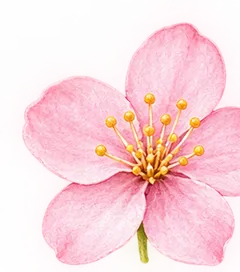
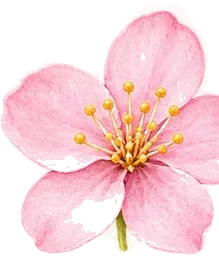
Grow the opening from a stem, then bloom lavender on the branches.

diff --git a/src/components/ForeverInvite.tsx b/src/components/ForeverInvite.tsx
@@ -12,46 +12,13 @@ const ART = "/forever";
 type Reply = { name: string; note: string; attending: boolean };
 type Phase = "closed" | "open";
 
-/** Leaves and blossoms seated on the branches of the tree artwork. */
-const CANOPY: { left: number; top: number; bloom: boolean; delay: number; rot: number; sprig?: boolean }[] = [
-  { left: 9.6, top: 35.6, bloom: false, delay: 1.3, rot: -11 },
-  { left: 2.2, top: 48.9, bloom: true, delay: 1.56, rot: -33 },
-  { left: 17.8, top: 18.0, bloom: false, delay: 0.93, rot: 6, sprig: true },
-  { left: 13.5, top: 34.8, bloom: true, delay: 1.28, rot: 36 },
-  { left: 13.7, top: 46.3, bloom: false, delay: 1.52, rot: -32 },
-  { left: 17.5, top: 61.2, bloom: true, delay: 1.8, rot: -6 },
-  { left: 28.5, top: 14.1, bloom: false, delay: 0.85, rot: -17 },
-  { left: 21.5, top: 23.2, bloom: true, delay: 1.04, rot: 19 },
-  { left: 20.0, top: 38.1, bloom: false, delay: 1.35, rot: -30, sprig: true },
-  { left: 22.1, top: 53.6, bloom: true, delay: 1.68, rot: 28 },
-  { left: 39.4, top: 9.8, bloom: false, delay: 0.76, rot: -26 },
-  { left: 36.8, top: 18.1, bloom: true, delay: 0.93, rot: 1 },
-  { left: 36.7, top: 35.8, bloom: false, delay: 1.3, rot: -16 },
-  { left: 36.5, top: 53.3, bloom: true, delay: 1.67, rot: -24 },
-  { left: 41.5, top: 12.4, bloom: false, delay: 0.81, rot: 30, sprig: true },
-  { left: 40.9, top: 26.2, bloom: true, delay: 1.1, rot: -33 },
-  { left: 40.8, top: 40.1, bloom: false, delay: 1.39, rot: 16, sprig: true },
-  { left: 45.5, top: 51.9, bloom: true, delay: 1.64, rot: -10 },
-  { left: 44.1, top: 63.8, bloom: false, delay: 1.89, rot: -16 },
-  { left: 51.5, top: 9.5, bloom: true, delay: 0.75, rot: -12 },
-  { left: 56.5, top: 26.2, bloom: false, delay: 1.1, rot: -5 },
-  { left: 50.5, top: 34.3, bloom: true, delay: 1.27, rot: 12 },
-  { left: 55.6, top: 52.6, bloom: false, delay: 1.65, rot: -29 },
-  { left: 50.4, top: 62.0, bloom: true, delay: 1.85, rot: -2 },
-  { left: 68.0, top: 9.4, bloom: false, delay: 0.75, rot: -31, sprig: true },
-  { left: 66.9, top: 19.4, bloom: true, delay: 0.96, rot: -23 },
-  { left: 67.3, top: 36.1, bloom: false, delay: 1.31, rot: -7 },
-  { left: 63.3, top: 51.4, bloom: true, delay: 1.63, rot: -15 },
-  { left: 77.8, top: 14.2, bloom: false, delay: 0.85, rot: -8 },
-  { left: 78.0, top: 17.8, bloom: true, delay: 0.92, rot: 38 },
-  { left: 75.2, top: 42.0, bloom: false, delay: 1.43, rot: -8, sprig: true },
-  { left: 74.8, top: 46.8, bloom: true, delay: 1.53, rot: -14 },
-  { left: 74.7, top: 57.2, bloom: false, delay: 1.75, rot: -30 },
-  { left: 89.6, top: 19.6, bloom: true, delay: 0.96, rot: -28 },
-  { left: 86.6, top: 35.1, bloom: false, delay: 1.29, rot: -26, sprig: true },
-  { left: 86.0, top: 47.3, bloom: true, delay: 1.54, rot: -33 },
-  { left: 90.0, top: 36.1, bloom: false, delay: 1.31, rot: 21 },
-  { left: 90.3, top: 52.3, bloom: true, delay: 1.65, rot: -34 },
+/** Lavender blossoms seated on the tips of the opening stem. */
+const BLOOMS = [
+  { left: 53, top: 5, size: 20, delay: 3.15, rot: -8 },
+  { left: 8, top: 29, size: 15, delay: 2.45, rot: -16 },
+  { left: 94, top: 32, size: 15, delay: 2.55, rot: 12 },
+  { left: 14, top: 20, size: 13, delay: 2.75, rot: 10 },
+  { left: 90, top: 44, size: 13, delay: 2.1, rot: 18 },
 ];
 
 function GardenBg({ name }: { name: string }) {
@@ -280,14 +247,14 @@ export function ForeverInvite({ fields, quiet = false, onReply }: {
           </div>
           <div className="gf-stage">
             <div className="gf-grow">
-            <img className="gf-tree" src={`${ART}/tree.webp`} alt="" />
-            {CANOPY.map((sprig) => (
+            <img className="gf-tree" src={`${ART}/stem.webp`} alt="" />
+            {BLOOMS.map((bloom) => (
               <img
-                className={`gf-sprout${sprig.bloom ? " is-bloom" : sprig.sprig ? " is-sprig" : ""}`}
-                key={`${sprig.left}-${sprig.top}`}
-                src={`${ART}/${sprig.bloom ? "sprig-bloom.webp" : sprig.sprig ? "sprig-branch.webp" : "sprig-leaf.webp"}`}
+                key={`${bloom.left}-${bloom.top}`}
+                className="gf-crown"
+                src={`${ART}/sprig-lavender.webp`}
                 alt=""
-                style={{ left: `${sprig.left}%`, top: `${sprig.top}%`, ["--rot" as string]: `${sprig.rot}deg`, transitionDelay: `${(0.35 + (1 - sprig.top / 100) * 2.2).toFixed(2)}s` }}
+                style={{ left: `${bloom.left}%`, top: `${bloom.top}%`, width: `${bloom.size}%`, transitionDelay: `${bloom.delay}s`, ["--rot" as string]: `${bloom.rot}deg` }}
               />
             ))}
             </div>

diff --git a/src/components/forever.css b/src/components/forever.css
@@ -93,8 +93,8 @@
   position: absolute;
   left: 50%;
   bottom: 0;
-  width: min(100cqw, calc(100cqh * 980 / 827));
-  aspect-ratio: 980 / 827;
+  width: min(78cqw, calc(100cqh * 671 / 835));
+  aspect-ratio: 671 / 835;
   transform: translateX(-50%);
 }
 .gf-tree {
@@ -112,6 +112,18 @@
 }
 .gf.is-open .gf-tree,
 .gf.is-quiet .gf-tree { clip-path: inset(0); }
+.gf-crown {
+  position: absolute;
+  z-index: 2;
+  height: auto;
+  max-width: none;
+  opacity: 0;
+  transform: translate(-50%, -50%) scale(0.15) rotate(var(--rot));
+  transition: opacity 0.5s ease, transform 0.8s cubic-bezier(.2, .8, .2, 1);
+  pointer-events: none;
+}
+.gf.is-open .gf-crown { opacity: 1; transform: translate(-50%, -50%) scale(1) rotate(var(--rot)); }
+.gf.is-quiet .gf-crown { opacity: 1; transform: translate(-50%, -50%) scale(1) rotate(var(--rot)); transition: none; }
 .gf-sprout {
   position: absolute;
   z-index: 2;
@@ -174,12 +186,12 @@
   z-index: 1;
   width: min(100%, 460px);
   margin: 0 auto;
-  padding: 22px 16px 20px;
+  padding: 28px 16px 20px;
   text-align: center;
-  background: #fffaf0f2;
-  border: 1px solid #fff;
-  border-radius: 28px;
-  box-shadow: 0 12px 40px #67513a22;
+  background: linear-gradient(180deg, transparent 0%, #fffaf0f4 64px);
+  border: 0;
+  border-radius: 0;
+  box-shadow: none;
 }
 .gf-paper .gf-panel { margin: -36px 16px 28px; }
 .gf-panel h2 { font-size: clamp(2rem, 8vw, 2.8rem); margin: 6px auto 12px; }
@@ -356,7 +368,7 @@
   width: 72%;
   height: 36%;
   z-index: 2;
-  clip-path: ellipse(46% 78% at 50% 58%);
+  overflow: visible;
 }
 .gf-drop {
   position: absolute;
@@ -404,7 +416,7 @@
 
 @media (prefers-reduced-motion: reduce) {
   .gf-reveal { opacity: 1; transform: none; }
-  .gf-tree, .gf-sprout, .gf-catch { transition: none; }
+  .gf-tree, .gf-sprout, .gf-crown, .gf-catch { transition: none; }
   .gf-fall { animation: none; }
   .gf.is-open .gf-tree { clip-path: inset(0); }
   .gf.is-open .gf-sprout { opacity: 1; transform: translate(-50%, -50%) scale(1) rotate(var(--rot)); }
